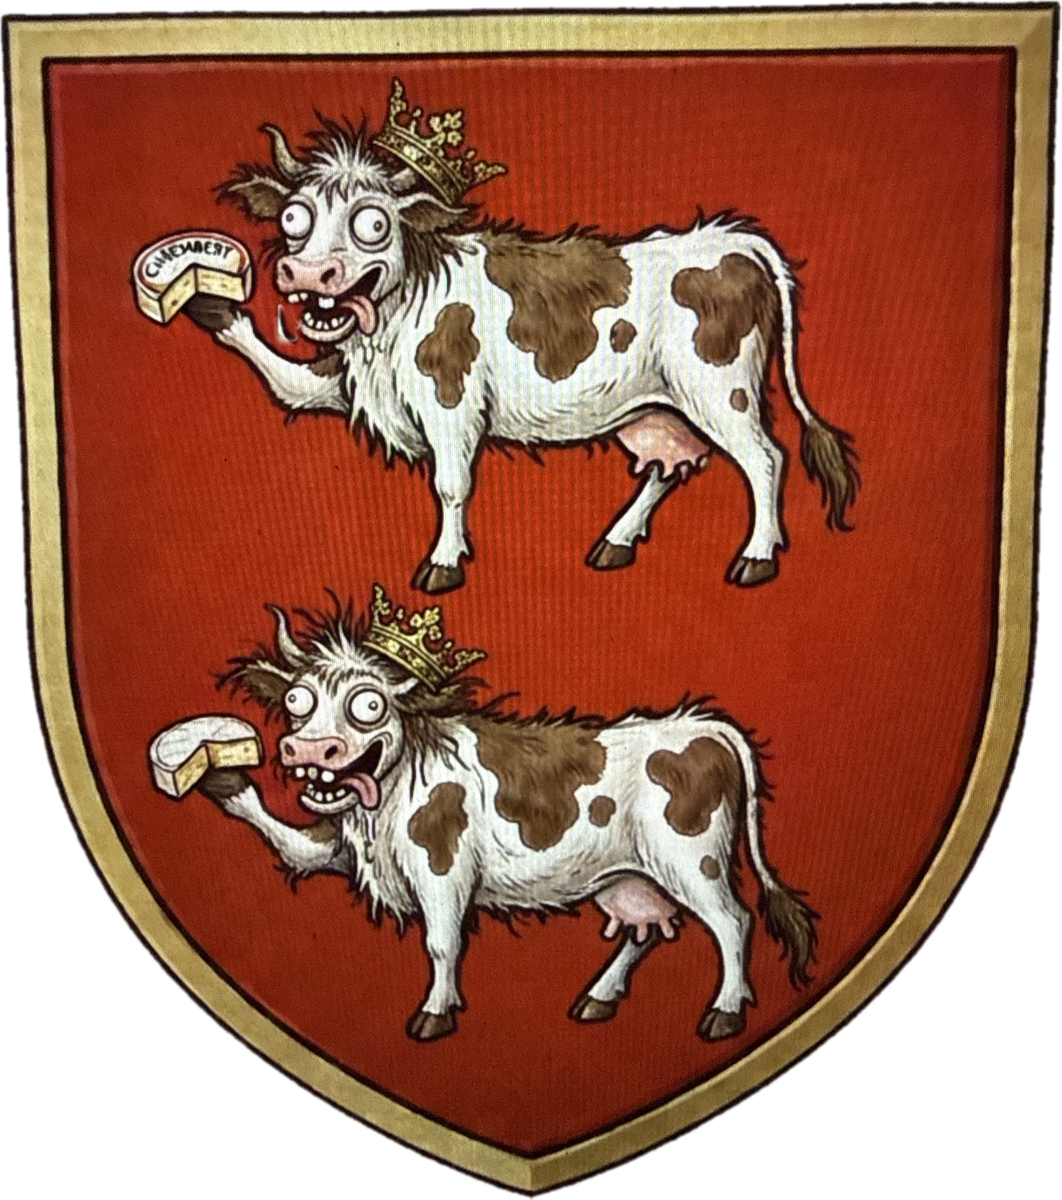
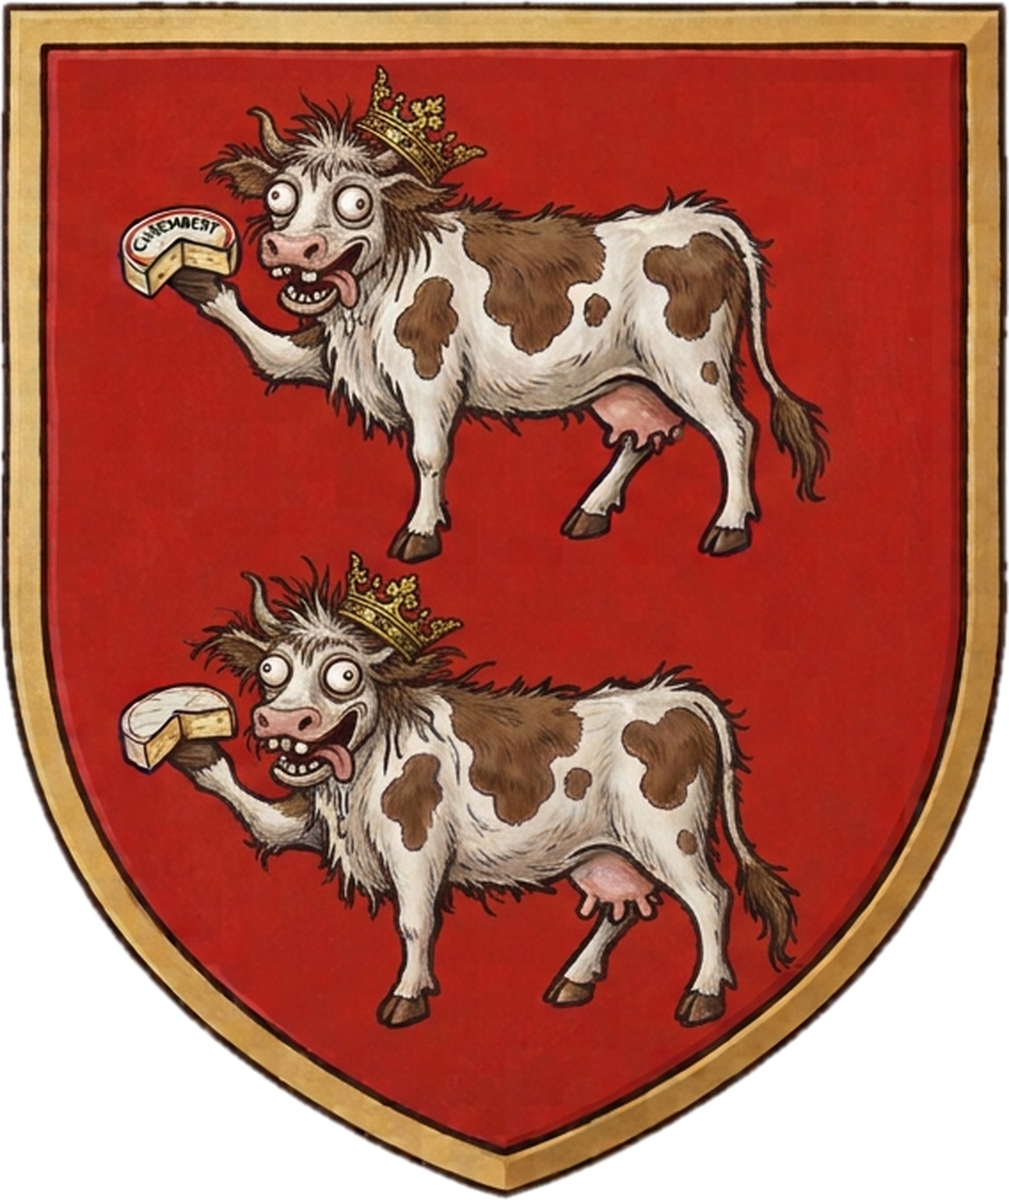
Écran titre : nouveau blason (illustration nette fournie)
Claude-Session: https://claude.ai/code/session_01DbpiRsDpY9bToLVDHyKNZk

diff --git a/LICENSES/ATTRIBUTIONS.md b/LICENSES/ATTRIBUTIONS.md
@@ -30,4 +30,4 @@ Les mp3 déposés par le joueur dans `user://musique/` ne sont jamais distribué
 
 Bebas Neue — © 2019 The Bebas Neue Project Authors (https://github.com/dharmatype/Bebas-Neue), licence SIL Open Font 1.1 (texte : `LICENSES/OFL-BebasNeue.txt`). Fichier : `game/assets/fonts/BebasNeue-Regular.ttf`.
 
-Blason de l'écran titre (`game/assets/ui/blason.png`) : illustration fournie par le propriétaire du projet (blason de Normandie détourné), détourée à partir d'une capture ; usage autorisé par lui dans le jeu.
+Blason de l'écran titre (`game/assets/ui/blason.png`) : illustration fournie par le propriétaire du projet (blason de Normandie détourné), détourée à partir de l'illustration fournie ; usage autorisé par lui dans le jeu.
